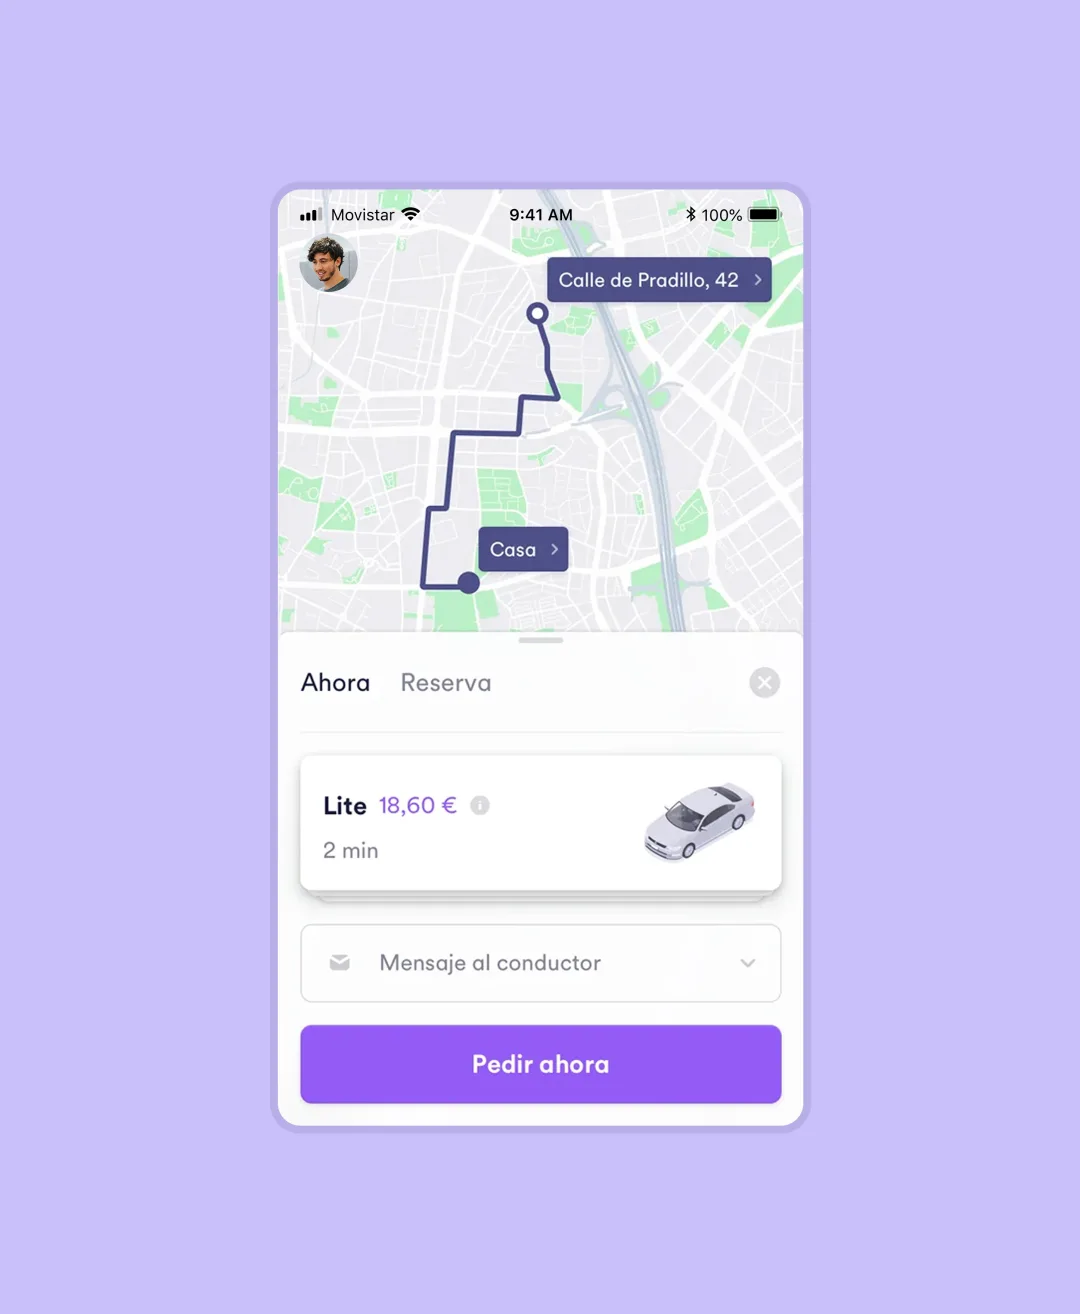
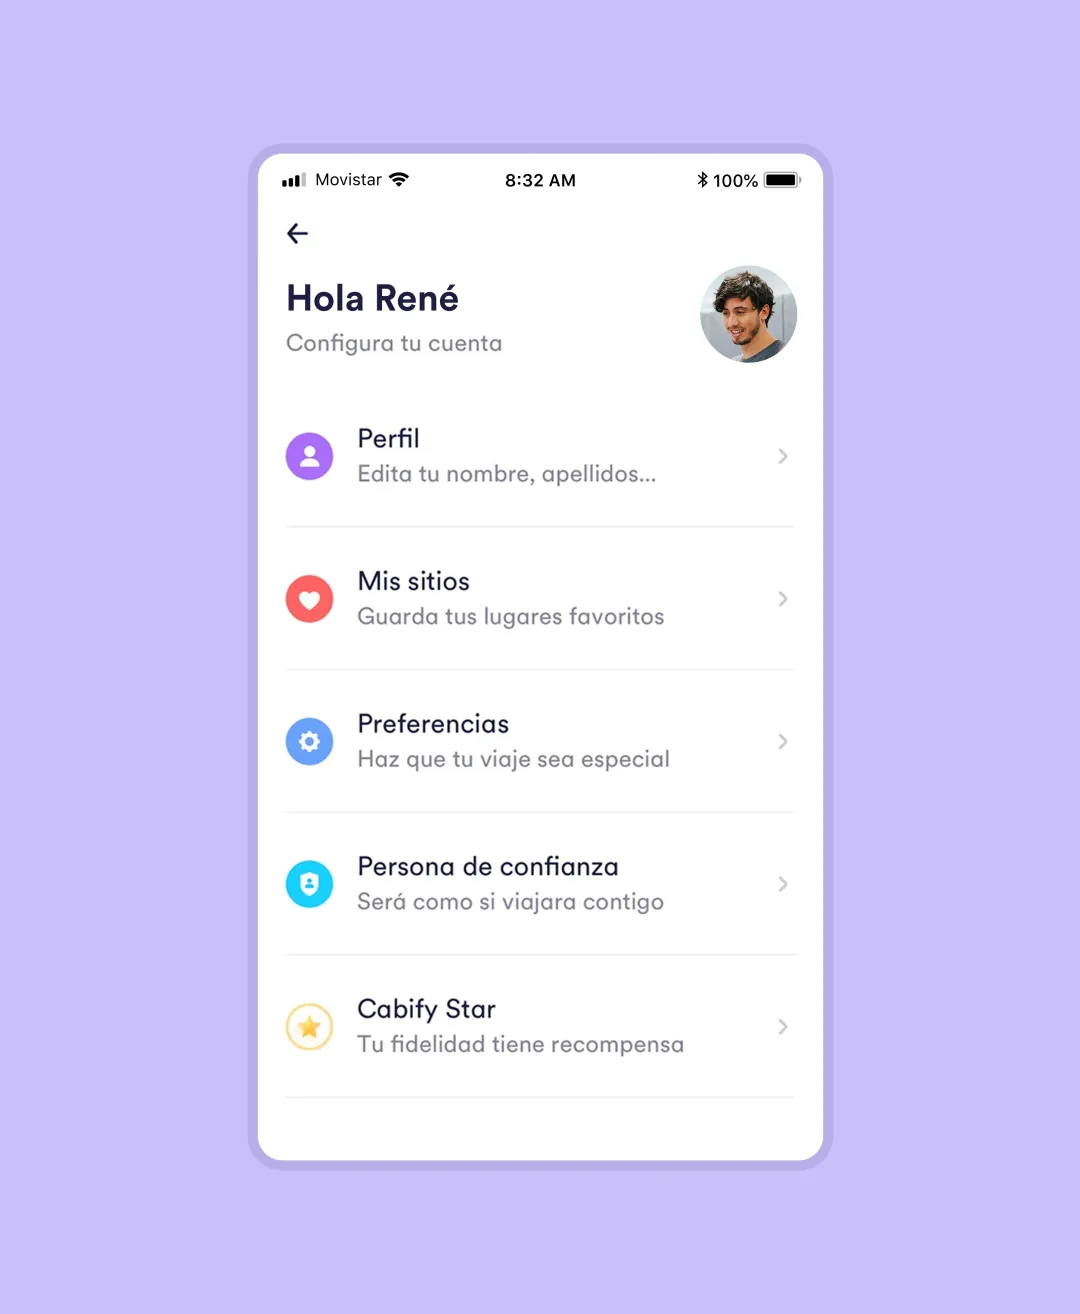
Work pages: real screenshots for Movo/Lana/Emojinote, tighter media rhythm
Replace placeholders and stand-in images with optimized webp screenshots:
- Movo: wide hero, rider-app pair, wide closer
- Lana: three-up app row + wide shot
- Emojinote: four-up screenshot row + wide shot (placeholder removed)
- Cabify: reorder rider pair, drop closing shot, link Movo

Refactor case-study vertical rhythm to a single source of truth: media
paragraphs own the block gap (56px), base img/video rule no longer sets
vertical margin, and the title→body gap matches. Drops a now-dead my-0
override and expresses the gap via the block's Tailwind @apply convention.

Changed region(s): [[0.2139, 0.0936, 0.7639, 0.9049]]

diff --git a/src/content/work/movo.md b/src/content/work/movo.md
@@ -9,10 +9,15 @@ logo: "/logos/movo_logo.webp"
 published: true
 ---
 
-Movo was a scooter-sharing service started inside [Cabify](/work/cabify) in 2018. It launched as a separate app and brand because tensions with the taxi industry were high at the time, and Cabify's fleet was often vandalized and [even burned](https://www.elconfidencial.com/espana/andalucia/2017-05-02/quemar-cabify-feria-abril-sevilla-nueve-calcinados_1376064/).
+Movo was a scooter-sharing service started inside [Cabify](/work/cabify) in 2018. It launched as a separate mobile app and brand because tensions with the taxi industry were high at the time, and Cabify's fleet was often vandalized and [even burned](https://www.elconfidencial.com/espana/andalucia/2017-05-02/quemar-cabify-feria-abril-sevilla-nueve-calcinados_1376064/).
 
 I joined part-time to help launch the first version, leading the user experience and collaborating with [Manu Gamero](https://www.linkedin.com/in/manugamero/) on the UI and [Oscar García](https://www.linkedin.com/in/oggdesign/) on the brand. The app borrowed a few patterns from the Cabify driver app, including the “swipe to start” interaction, and made them fit a simpler flow for unlocking scooters.
 
 The service operated as a separate app until 2021, when it was integrated back into the Cabify app as part of a broader redesign.
 
-![Movo](/portfolio/cabify-movo.webp)
+![Movo](/portfolio/movo-3.webp)
+
+![Movo](/portfolio/movo-1.webp)
+![Movo](/portfolio/movo-2.webp)
+
+![Movo](/portfolio/movo-4.webp)

diff --git a/src/content/work/emojinote.md b/src/content/work/emojinote.md
@@ -9,10 +9,15 @@ published: true
 externalUrl: "https://www.youtube.com/watch?v=-08PnmPx3zg&t=31s"
 ---
 
-Emojinote was a note-taking iOS app for organizing notes with emoji. It was really that simple.
+Emojinote is a note-taking iOS app for organizing notes with emoji. It is really that simple.
 
 It started as a mobile version of [Notational Velocity](https://notational.net/), the classic Mac app that used the same input for both searching and creating notes. While using it, I started adding emoji to notes so I could tag and filter them quickly from that input. That became the whole idea: a tab bar where emoji worked as a simple filing system without tags or folders.
 
-The app was free to download, with an in-app purchase to unlock unlimited emoji after the third one. You can read the full story in this [guest post](https://marvelapp.com/blog/quest-find-happiest-notes-app/) for Marvel.
+The app is free to download, with an in-app purchase to unlock unlimited. You can read the full story in this [guest post](https://marvelapp.com/blog/quest-find-happiest-notes-app/) for Marvel.
 
-![Emojinote — placeholder](/portfolio/ph-wide.svg)
+![Emojinote](/portfolio/emojinote-1.webp)
+![Emojinote](/portfolio/emojinote-2.webp)
+![Emojinote](/portfolio/emojinote-3.webp)
+![Emojinote](/portfolio/emojinote-4.webp)
+
+![Emojinote](/portfolio/emojinote-5.webp)

diff --git a/src/content/work/cabify.md b/src/content/work/cabify.md
@@ -10,11 +10,9 @@ published: true
 externalUrl: "https://cabify.com/"
 ---
 
-Cabify is one of the largest ride-hailing companies in Spain and Latin America. I joined as the second product designer and led design for the rider app and the purple rebrand. I also helped hire and onboard the team as it grew from 2 to 8 designers, before moving to the new business division, where I worked on Movo and [Lana](/work/lana).
+Cabify is one of the largest ride-hailing companies in Spain and Latin America. I joined as the second product designer and led design for the rider app and the purple rebrand. I also helped hire and onboard the team as it grew from 2 to 8 designers, before moving to the new business division, where I worked on [Movo](/work/movo) and [Lana](/work/lana).
 
 ![Cabify rebrand animation](/portfolio/cabify-animation.mp4)
 
-![Cabify rider app](/portfolio/cabify-rider-1.webp)
 ![Cabify rider app](/portfolio/cabify-rider-2.webp)
-
-![Cabify rider app](/portfolio/cabify-rider-3.webp)
+![Cabify rider app](/portfolio/cabify-rider-1.webp)

diff --git a/src/content/work/lana.md b/src/content/work/lana.md
@@ -15,4 +15,8 @@ Lana was a wallet app and fintech marketplace built for the underbanked in Latin
 
 The architecture borrowed from WeChat's superapp model, where each mini app opened as a webview to select a service, then returned to the native core to sign the transaction. The same shell rendered different apps depending on the country, which enabled us to launch in Mexico, Peru and Chile with 15,000 accounts.
 
-![Lana home screen](/portfolio/lana-home.webp)
+![Lana](/portfolio/lana-1.webp)
+![Lana](/portfolio/lana-2.webp)
+![Lana](/portfolio/lana-3.webp)
+
+![Lana](/portfolio/lana-4.webp)
